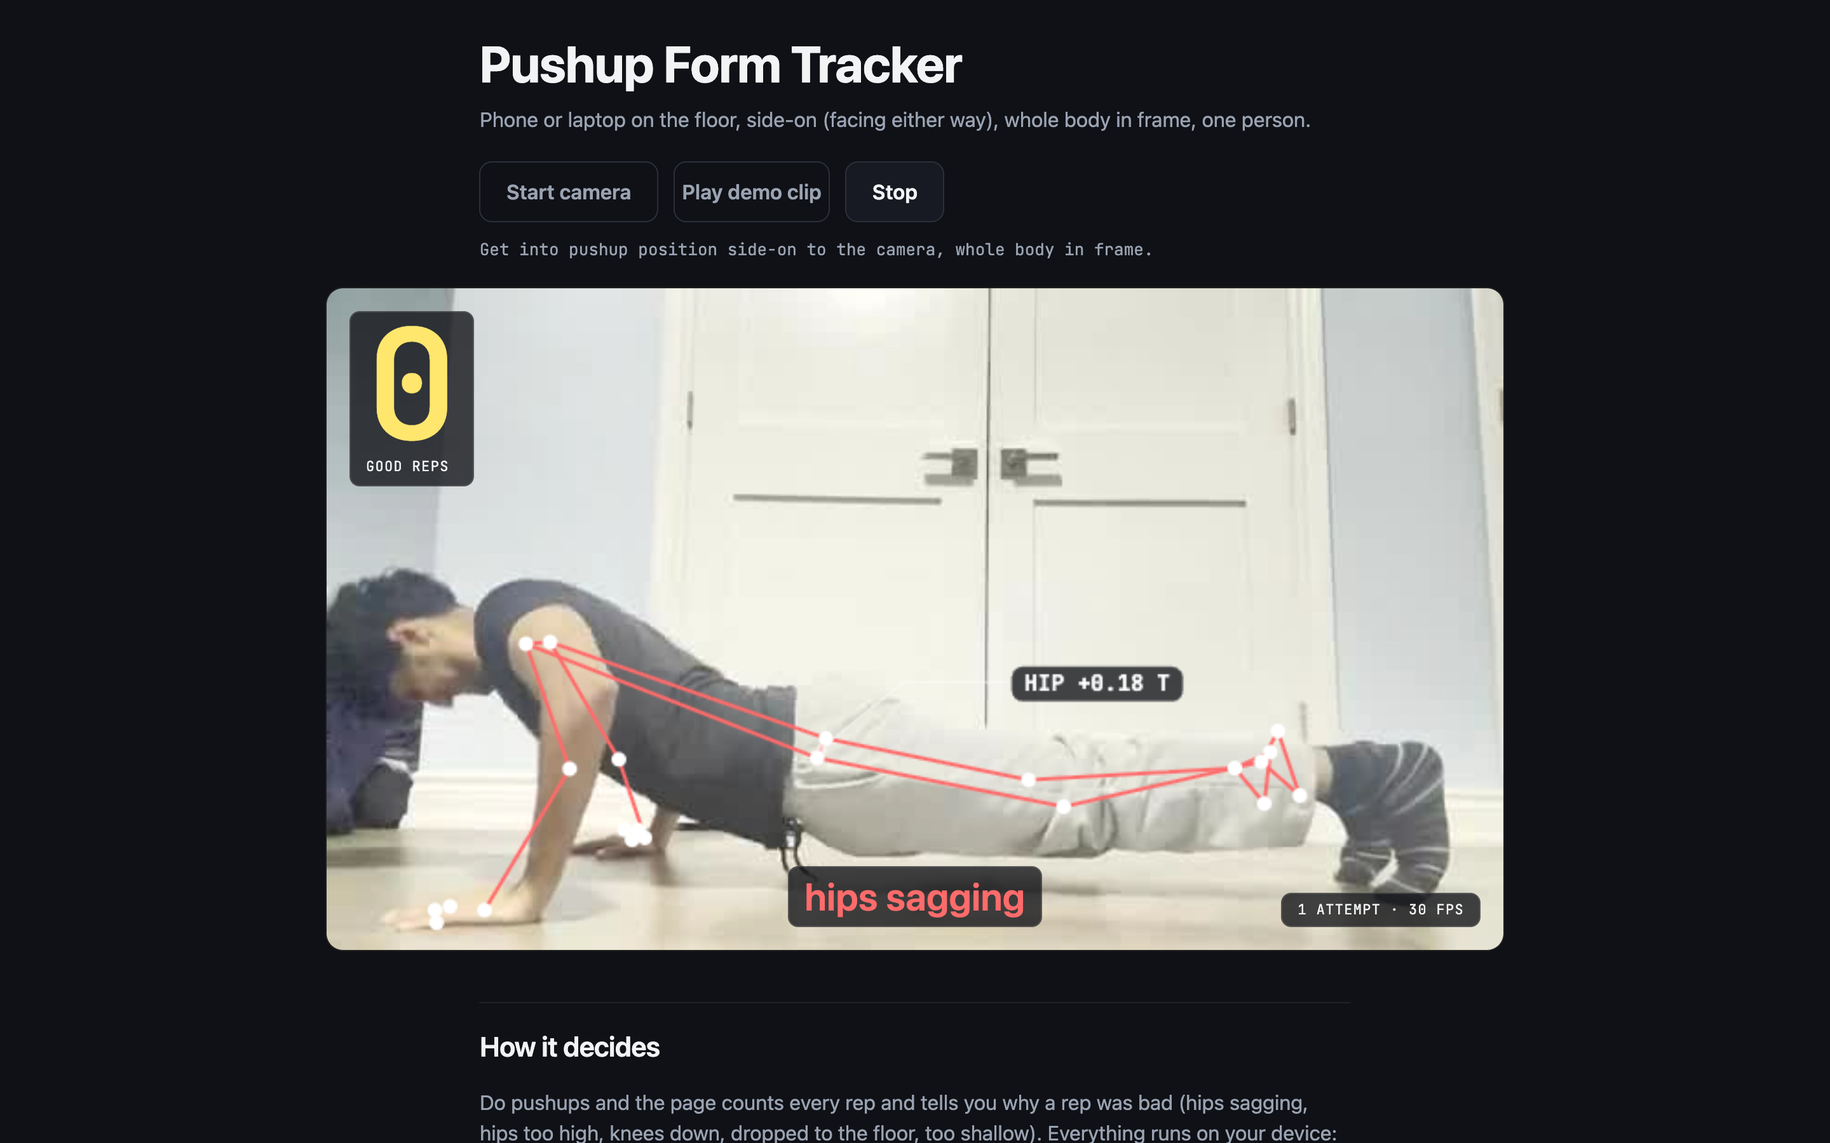
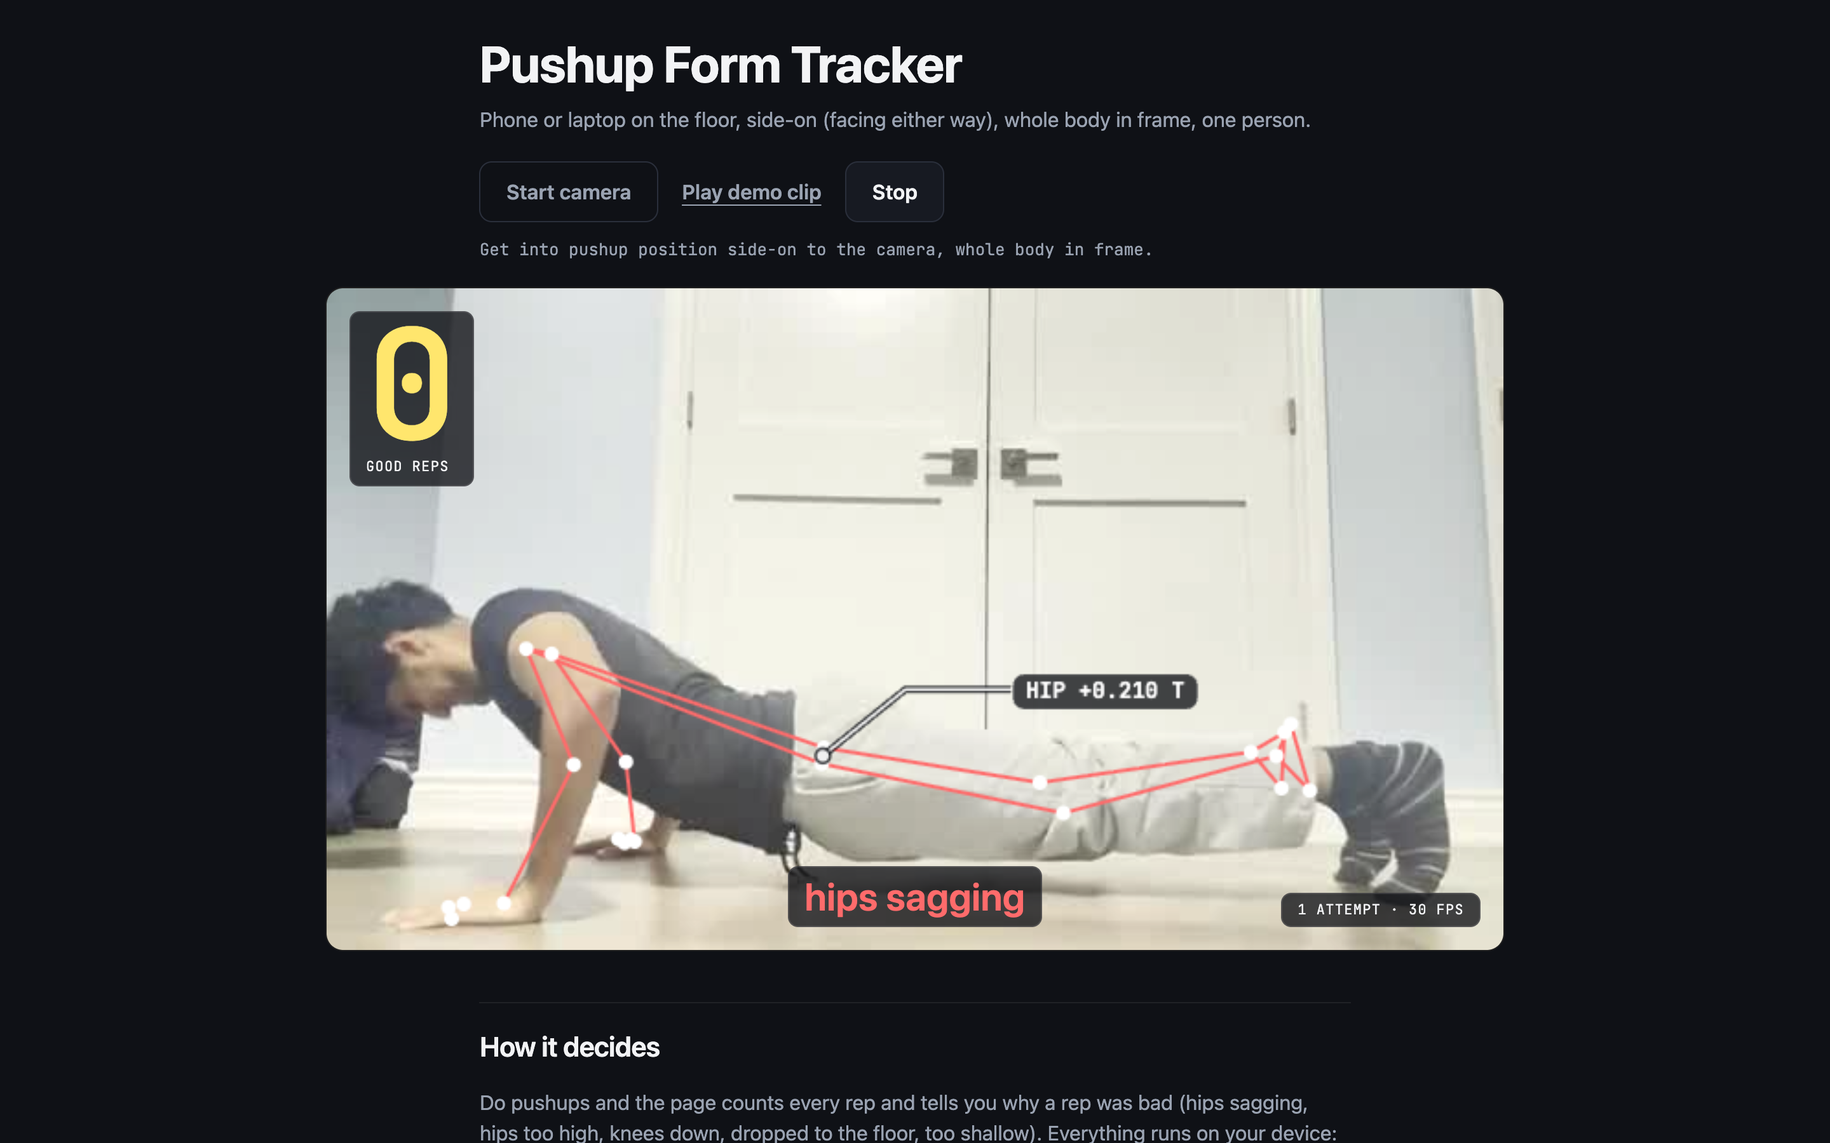
fix(ui): reviewer round 1 — all five blocking defects and eight of the minors
BLOCKING
- The rep pulse was cut to ~116 ms: AnimationEvent bubbles, so the verdict word's 120 ms verdict-in
  ended on a descendant of #stage and the listener deleted data-rep mid-keyframe. The listener now
  checks e.target === stage && e.animationName === "rep-pulse", and is removed on restart. Measured on
  the real path over a whole demo clip: four pulses of 157, 155, 159, 161 ms, none stuck, no errors.
- The stacked threshold table at 390 was broken: display:block left the caption a table-caption inside
  an anonymous shrink-to-fit box (64 px wide, 530 px tall) and the percentage column widths still
  applied, leaving 107 px for the value. Caption 64 -> 358 px wide, table 2055 -> 1062 px, the whole
  390 document 4905 -> 3912 px.
- At 390 the meta line was sliced by the stage's overflow whenever a hint was up: a 16:9 frame is only
  ~219 px tall and the five-row stack needed ~262. The hint now sits beside the count, the only row
  with spare width there; HUD scrollHeight 219 = clientHeight 219, meta bottom 492 inside stage 503.
- A held rep result outranked "paused", so a green "clean" could sit over a grey paused skeleton for
  up to 0.8 s. Paused now outranks the held result, as DESIGN.md always claimed.
- The diagnostic connector was a 1 px white hairline, ~1.2:1 against a blown-out frame, so the measured
  label floated free of its joint. It is stroked twice now, a dark under-stroke in the plate colour
  then the light line, with a ringed joint dot.

MINORS
[…]

Changed region(s): [[0.1875, 0.4978, 0.7188, 0.8089]]

diff --git a/src/style.css b/src/style.css
@@ -2,7 +2,7 @@
  * "Gym mirror" — docs/design/spec.md.
  * The video is the page: the count, the verdict, the fault and the placement hint live on the glass.
  * One accent (#ffe66d) and it means one thing: a rep was COUNTED. One added face (JetBrains Mono).
- * One easing family. Eight animations, all listed in spec.md §4, all with a static reduced-motion state.
+ * One easing family. Nine animations, all listed in DESIGN.md §2, all with a static reduced-motion state.
  */
 
 /* SIL Open Font License 1.1 — public/fonts/OFL.txt. Latin subset, self-hosted, no CDN. */
@@ -129,7 +129,9 @@ button.outline { background: var(--panel); border-color: #2a2f3b; }
 button.outline:hover:not(:disabled) { border-color: var(--line); }
 /* A 45 %-opacity accent button on black is a muddy olive with unreadable text; a disabled control is
    simply a quiet outline instead. */
-button:disabled { cursor: not-allowed; background: transparent; border-color: #2a2f3b; color: var(--muted); text-decoration: none; }
+button:disabled { cursor: not-allowed; background: transparent; border-color: #2a2f3b; color: var(--muted); }
+/* …but a disabled ghost stays a text button, never a second outlined box next to the primary. */
+button.ghost:disabled { border-color: transparent; }
 button[hidden] { display: none; }
 
 .status { min-height: 1.5em; margin: 12px 0 0; color: var(--muted); font: 400 13px/1.5 var(--mono); }
@@ -235,11 +237,18 @@ button[hidden] { display: none; }
 
 /* A narrow stage stacks the bottom row so the verdict and the meta line can never collide. */
 @container (max-width: 620px) {
-  .hud { grid-template-columns: 1fr; grid-template-rows: auto auto 1fr auto auto; }
+  .hud {
+    --hud-pad: 10px;
+    grid-template-columns: auto 1fr;
+    grid-template-rows: auto 1fr auto auto;
+    gap: 8px;
+  }
   .hud-count { grid-area: 1 / 1; }
-  .hud-hint { grid-area: 2 / 1; justify-self: end; max-width: 100%; font-size: 13px; }
-  .hud-verdict { grid-area: 4 / 1; justify-self: center; }
-  .hud-meta { grid-area: 5 / 1; justify-self: end; }
+  /* Beside the count, not under it: a 390-wide 16:9 stage is ~219 px tall and a five-row stack pushed
+     the meta line out through .stage's overflow whenever a hint was up (reviewer, 2026-09-21). */
+  .hud-hint { grid-area: 1 / 2; justify-self: end; align-self: start; max-width: 100%; font-size: 13px; }
+  .hud-verdict { grid-area: 3 / 1 / auto / span 2; justify-self: center; }
+  .hud-meta { grid-area: 4 / 1 / auto / span 2; justify-self: end; }
 }
 
 /* ---------- motion (spec.md §4) ---------- */
@@ -261,7 +270,6 @@ button[hidden] { display: none; }
 .hud-hint { transition: opacity var(--d-in) var(--ease-out), transform var(--d-in) var(--ease-out); }
 .hud-hint[data-state="out"] {
   opacity: 0;
-  transform: translateY(-4px);
   transition-duration: var(--d-out);
   transition-timing-function: var(--ease-in);
 }
@@ -338,6 +346,12 @@ button[hidden] { display: none; }
   .stage.live canvas { max-height: 62vh; object-fit: contain; }
   .thresholds, .thresholds tbody, .thresholds tr, .thresholds td { display: block; }
   .thresholds thead { display: none; }
+  /* Without these the caption stays a table-caption inside an anonymous shrink-to-fit table box — a
+     64 px ribbon 530 px tall — and the percentage column widths squeeze the value to ~107 px, which
+     together made the 390 page 2.1x taller than the page this redesign was fixing. */
+  .thresholds caption { display: block; }
+  .thresholds td:nth-child(1), .thresholds td:nth-child(2), .thresholds td:nth-child(3) { width: auto; }
+  .thresholds td:nth-child(2) { white-space: normal; }
   .thresholds tr { padding: 10px 0; border-bottom: 1px solid var(--hair); }
   .thresholds td { padding: 2px 0; border: 0; display: flex; gap: 10px; }
   .thresholds td::before {
@@ -367,5 +381,5 @@ button[hidden] { display: none; }
     box-shadow: inset 0 0 0 3px rgba(255, 230, 109, 0.65);
   }
   .hud-verdict.is-swap .v { animation: none; }
-  .hud-hint[data-state="out"] { opacity: 0; transform: none; }
+  .hud-hint[data-state="out"] { opacity: 0; }
 }

diff --git a/src/main.ts b/src/main.ts
@@ -32,8 +32,9 @@ let starting = false;
 const SLOW_FPS = 8;
 const SLOW_MS = 2000;
 /** Matches --d-out in style.css. */
-/** Safety net: the 180 ms pulse attribute is normally removed by `animationend`. */
+/** Safety net: the 180 ms pulse attribute is normally removed by its own `animationend`. */
 const PULSE_FALLBACK_MS = 1200;
+/** Matches --d-out in style.css. */
 const HINT_OUT_MS = 400;
 const IDLE = "—";
 
@@ -77,8 +78,10 @@ function setVerdict(text: string, tone: Tone) {
  * finished wins for as long as session.ts holds it, so the plate and the skeleton always agree.
  */
 function verdictWords(paused: boolean, verdict: { good: boolean; reason: string | null } | null, result: RepResult | null): [string, Tone] {
-  if (result) return result.good ? ["clean", "good"] : [result.reason ?? "unsure", "bad"];
+  // Paused first: the skeleton is grey the moment counting stops, and a held "clean" over a grey body
+  // would tell the visitor nothing is wrong at the one moment something is (reviewer, 2026-09-21).
   if (paused) return ["paused", "paused"];
+  if (result) return result.good ? ["clean", "good"] : [result.reason ?? "unsure", "bad"];
   if (verdict == null) return ["no pose", "neutral"];
   return verdict.good ? ["clean", "good"] : [verdict.reason ?? "unsure", "bad"];
 }
@@ -112,18 +115,29 @@ function setHint(text: string | null) {
 
 let pulseTimer: number | undefined;
 
-function pulseRep() {
+function clearPulse() {
   window.clearTimeout(pulseTimer);
+  stage.removeEventListener("animationend", onPulseEnd);
   delete stage.dataset.rep;
+}
+
+function onPulseEnd(e: AnimationEvent) {
+  if (e.target === stage && e.animationName === "rep-pulse") clearPulse();
+}
+
+function pulseRep() {
+  clearPulse();
   void stage.offsetWidth; // a CSS animation only restarts once the attribute has actually been off
   stage.dataset.rep = "counted";
   if (reduceMotion.matches) {
     // No animation under reduced motion: a static accent frame, held for 600 ms, then simply gone.
-    pulseTimer = window.setTimeout(() => delete stage.dataset.rep, 600);
+    pulseTimer = window.setTimeout(clearPulse, 600);
     return;
   }
-  stage.addEventListener("animationend", () => delete stage.dataset.rep, { once: true });
-  pulseTimer = window.setTimeout(() => delete stage.dataset.rep, PULSE_FALLBACK_MS);
+  // AnimationEvent bubbles: the verdict word's 120 ms `verdict-in` ends on a descendant of #stage and
+  // would cut the 180 ms pulse short (reviewer, 2026-09-21). Only this element's own pulse may end it.
+  stage.addEventListener("animationend", onPulseEnd);
+  pulseTimer = window.setTimeout(clearPulse, PULSE_FALLBACK_MS);
 }
 
 /* ---------- the count (top left) ---------- */
@@ -144,7 +158,7 @@ function resetHud() {
   setGood(0);
   setAttempts(0);
   fpsEl.textContent = IDLE;
-  verdictShown = "";
+  verdictShown = IDLE;
   verdictBox.dataset.tone = "neutral";
   formEl.textContent = IDLE;
   hintShown = null;

diff --git a/src/draw.ts b/src/draw.ts
@@ -40,7 +40,7 @@ const PAUSED = "#b8b8b8";
 /** Matches --plate / --line in src/style.css so the canvas label and the DOM HUD are one material. */
 const PLATE = "rgba(15,17,22,0.78)";
 const PLATE_EDGE = "rgba(255,255,255,0.12)";
-const CONNECTOR = "rgba(255,255,255,0.55)";
+const CONNECTOR = "rgba(255,255,255,0.92)";
 
 export function draw(ctx: CanvasRenderingContext2D, source: CanvasImageSource, o: Overlay): void {
   const { width: w, height: h } = ctx.canvas;
@@ -86,16 +86,28 @@ export function draw(ctx: CanvasRenderingContext2D, source: CanvasImageSource, o
     const bendX = jx + dir * w * 0.07;
     const endX = jx + dir * w * 0.16;
     const endY = jy - h * 0.1;
+    // Two passes: a dark under-stroke in the plate colour, then the light line on top. A single 1 px
+    // white line measured ~1.2:1 against the blown-out wall that fills most of a real frame, so the
+    // label floated free of the joint it is about (reviewer, 2026-09-21).
+    const route = new Path2D();
+    route.moveTo(jx, jy);
+    route.lineTo(bendX, endY);
+    route.lineTo(endX, endY);
+    ctx.lineJoin = "round";
+    ctx.strokeStyle = PLATE;
+    ctx.lineWidth = Math.max(4, w / 160);
+    ctx.stroke(route);
     ctx.strokeStyle = CONNECTOR;
-    ctx.lineWidth = Math.max(1, w / 900);
+    ctx.lineWidth = Math.max(1.5, w / 420);
+    ctx.stroke(route);
+    const dotR = Math.max(3, w / 200);
+    ctx.fillStyle = PLATE;
     ctx.beginPath();
-    ctx.moveTo(jx, jy);
-    ctx.lineTo(bendX, endY);
-    ctx.lineTo(endX, endY);
-    ctx.stroke();
+    ctx.arc(jx, jy, dotR + Math.max(1.5, w / 420), 0, Math.PI * 2);
+    ctx.fill();
     ctx.fillStyle = CONNECTOR;
     ctx.beginPath();
-    ctx.arc(jx, jy, Math.max(2, w / 260), 0, Math.PI * 2);
+    ctx.arc(jx, jy, dotR, 0, Math.PI * 2);
     ctx.fill();
     ctx.font = `600 ${Math.max(10, Math.round(w / 52))}px "JetBrains Mono", ui-monospace, monospace`;
     ctx.textBaseline = "middle";
@@ -121,7 +133,10 @@ function plate(ctx: CanvasRenderingContext2D, text: string, x: number, y: number
   ctx.strokeStyle = PLATE_EDGE;
   ctx.lineWidth = 1;
   ctx.beginPath();
-  ctx.roundRect(boxX, boxY, boxW, boxH, 6);
+  // roundRect is Safari 16.4+; without the fallback an older Safari throws inside the frame loop and
+  // session.ts stops the whole session over a corner radius.
+  if (typeof ctx.roundRect === "function") ctx.roundRect(boxX, boxY, boxW, boxH, 6);
+  else ctx.rect(boxX, boxY, boxW, boxH);
   ctx.fill();
   ctx.stroke();
   ctx.fillStyle = "#ffffff";

diff --git a/src/session.ts b/src/session.ts
@@ -279,7 +279,9 @@ function annotationFor(reason: string | null, g: Geometry, p: readonly Landmark[
   if (reason === "knees down" && g.kneeAngle < KNEE_DOWN_DEG) return { ...mid(25, 26), text: `KNEE ${Math.round(g.kneeAngle)} DEG` };
   if ((reason === "hips sagging" && g.hipDev > SAG_DEV) || (reason === "hips too high" && g.hipDev < PIKE_DEV)) {
     const sign = g.hipDev >= 0 ? "+" : "-";
-    return { ...mid(23, 24), text: `HIP ${sign}${Math.abs(g.hipDev).toFixed(2)} T` };
+    // Three decimals, not two: the annotation only appears once the threshold is passed, and "+0.18 T"
+    // rounded down onto the table's own "> +0.18 T" read as if the rule had not been tripped.
+    return { ...mid(23, 24), text: `HIP ${sign}${Math.abs(g.hipDev).toFixed(3)} T` };
   }
   return null;
 }

diff --git a/docs/design/DESIGN.md b/docs/design/DESIGN.md
@@ -1,6 +1,6 @@
 # Pushup Form Tracker — design system
 
-Codename **"Gym mirror"**. Dark only. One accent. One added typeface. Eight animations.
+Codename **"Gym mirror"**. Dark only. One accent. One added typeface. Nine animations.
 
 The direction is the PRIMARY lane of `docs/design/app-directions.md` §5 in `KalpKan/portfolio`; the spec
 that was locked before any code is [`spec.md`](./spec.md); the implementation plan is
@@ -78,18 +78,20 @@ video, not the window. `.stage` is a `container-type: inline-size` container and
 
 ---
 
-## 2. The motion budget — eight items, and nothing else moves
+## 2. The motion budget — nine items, and nothing else moves
 
 | # | Moment | What moves | Duration | Reason (`animation-systems`) | Reduced-motion state |
 |---|---|---|---|---|---|
 | 1 | a good rep lands | the stage frame pulses to the accent (1 px border + a sharp 3 px inset ring, no blur) | 180 ms | **confirm action** — the only confirmation a face-down user gets | a **static** accent frame, applied instantly, removed after 600 ms; the count increment does the work |
+| | | *`AnimationEvent` bubbles, so the listener that ends the pulse checks `e.target === stage && e.animationName === "rep-pulse"`; without that the verdict word's 120 ms animation ended the pulse 64 ms early.* | | | |
 | 2 | any rep lands | the count digit changes | **0 ms** | a count-up tween would lie about when the rep landed | same (there is no animation to remove) |
 | 3 | the verdict word changes | the new word fades and rises 3 px into place; the plate is never blank | 120 ms | **confirm state change**; an out-phase would hide the one word the user is reading | instant |
 | 4 | a placement hint appears | opacity 0→1, translateY −4px→0 | 200 ms | **guide attention** to something fixable | instant |
-| 5 | a placement hint clears | opacity 1→0 | 400 ms | slower out, so a flickering detection cannot strobe | instant |
+| 5 | a placement hint clears | opacity 1→0 (opacity only) | 400 ms | slower out, so a flickering detection cannot strobe | instant |
 | 6 | a session starts | the poster cross-fades to the live canvas | 220 ms | **continuity** between the still and the feed | instant |
 | 7 | button hover / press | background and border tint, no transform | 120 ms | micro-feedback on a 48 px target | instant |
 | 8 | focus | the outline appears | **0 ms** | a focus ring must never be delayed | same |
+| 9 | a session starts at ≤ 480 px | the page scrolls the stage into view | browser default | **continuity**: on a phone the header and buttons push the stage below the fold, and the visitor is about to lie on the floor | `behavior: "auto"` — the stage is simply there |
 
 No scroll-driven motion, no smooth-scroll engine, no parallax, no perpetual loop, nothing animating
 behind content. `prefers-reduced-motion: reduce` lands on a complete static final state in every case,
@@ -114,14 +116,17 @@ never on a shortened animation; the rep confirmation in particular becomes a sta
 | error | `.live` removed | the poster returns; the status line carries an actionable message |
 
 The skeleton and the verdict plate are driven by **one** value (`session.ts`'s held rep result, falling
-back to the live verdict), so a red word can never sit over a green body.
+back to the live verdict), so a red word can never sit over a green body — and `paused` outranks both,
+because the skeleton greys the moment counting stops and a held "clean" over a grey body would say
+nothing is wrong at the one moment something is.
 
 ### HUD
 
 `<ul class="hud" role="list" aria-label="Session stats">`, CSS grid, `pointer-events: none`.
 Wide stage: count top-left, hint top-right, verdict bottom-centre, meta bottom-right. Below a **620 px
-stage** (a container query, not a viewport query) the bottom row stacks — verdict then meta — so the two
-can never collide on a phone.
+stage** (a container query, not a viewport query) the verdict and the meta line stack, and the hint stays
+**beside** the count rather than under it: a 390-wide 16:9 frame is only ~219 px tall, and a five-row
+stack pushed the meta plate out through the stage's `overflow: hidden` whenever a hint was up.
 
 ### Buttons
 
@@ -135,8 +140,9 @@ outline in `--muted`, never a 45 %-opacity accent (which renders as an unreadabl
 2 px bones and 4 px filled joint dots at the 640 px canvas both sources produce, scaled by canvas width;
 green when clean, red when faulted, grey when counting is paused. When a fault is on screen **and that
 frame's own geometry trips the documented threshold**, one 1 px routed connector runs from the
-responsible joint to a mono micro-label with the measurement — `HIP +0.18 T`, `KNEE 118 DEG` — on the
-same plate material as the DOM HUD. Never more than one annotation. Bottom-window faults ("dropped to
+responsible joint to a mono micro-label with the measurement — `HIP +0.183 T`, `KNEE 118 DEG` — on the
+same plate material as the DOM HUD. The connector is stroked twice, a dark under-stroke in `--plate`
+then the light line, because a single hairline is invisible against a blown-out frame. Never more than one annotation. Bottom-window faults ("dropped to
 the floor") are not annotated, because no single frame's joint explains them.
 
 ---

diff --git a/docs/RESUME.md b/docs/RESUME.md
@@ -1,0 +1,62 @@
+# Resume — pushups "Gym mirror" redesign
+
+State at the last hand-off. If everything below is ticked in `STATUS.md`, there is nothing to resume.
+
+## Where things are
+
+- Branch `redesign` (off `main` @ `08f222a`), merged to `main` with `--no-ff` when the checklist closed.
+- The contract: `docs/design/app-directions.md` §5 in `KalpKan/portfolio`, PRIMARY direction.
+- The spec (locked before code): `docs/design/spec.md`. The plan: `docs/design/plan.md`.
+  What shipped: `docs/design/DESIGN.md`. The pre-redesign numbers: `docs/design/baseline.md`.
+- Screenshots of every state, camera-on included: `docs/images/redesign/`.
+
+## How to reproduce every gate
+
+```bash
+cd ~/projects/pushups
+npm ci
+npm run typecheck                                  # tsc, clean
+npx vitest run --pool=forks --maxWorkers=1         # 176 passed | 4 expected fail
+npm run build
+npx vite preview --port 4177 --strictPort &        # serves dist/
+
+# the design states, camera-on, through Chrome's fake camera
+node scripts/make-mjpeg.mjs                        # once, builds tests/fixtures/clips/.mjpeg
+GPU=1 node scripts/design-shots.mjs                # 11 states → docs/images/redesign/
+
+# the proof that counting did not change
+GPU=1 node scripts/e2e-corpus.mjs http://localhost:4177/            # 14/15 (bad_IMG_4456 is the known miss)
+GPU=1 MIRROR=1 node scripts/e2e-corpus.mjs http://localhost:4177/   # 14/15
+GPU=1 node scripts/e2e-demo.mjs http://localhost:4177/              # 4 good of 4, errors []
+node scripts/e2e-failure-modes.mjs http://localhost:4177/ /tmp/fail
+node scripts/e2e-hints.mjs http://localhost:4177/ tests/fixtures/clips/.mjpeg
+
+# the poster, if the demo clip or the skeleton style ever changes
+GPU=1 node scripts/make-poster.mjs http://localhost:4177/
+```
+
+Run the corpus with nothing else competing for the GPU: a run that drops to ~15 fps can lose a clip
+(`IMG_1359` did exactly that once, and passed on its own at 26 fps).
+
+## Known, deliberate, not defects
+
+- `bad_IMG_4456` counts 4 good of 4 in every facing. It is the documented 2D-landmark blind spot (a rep
+  that rests on the floor and pushes the chest up with the arms properly bent) and is an `it.fails` in
+  `tests/corpus.test.ts`. The redesign did not change it and must not be blamed for it.
+- The HUD plate is `rgba(15,17,22,0.78)`, not the direction's 0.72, so `--bad` clears 3:1 against a
+  blown-out frame. Measured in `DESIGN.md` §5.
+- The count uses `13cqi`, not the direction's `12vw`, because the stage is capped at 960 px and the
+  count must scale with the video rather than the window.
+- `border-beam` is not installed: it is React-only and this app has no framework. Its principles are
+  applied by hand to the one pulse (`DESIGN.md` §6).
+
+## If you have to change something
+
+The view is `index.html`, `src/style.css`, `src/main.ts`, `src/draw.ts`.
+The judgement is `src/repCounter.ts`, `src/form.ts`, `src/tracker.ts`, `src/features.ts`,
+`src/hints.ts`, `src/pose.ts` — a design change must never touch them, and
+`git diff main --stat -- <those files> tests/` being empty is the check.
+
+These ids are a contract with `scripts/e2e-*.mjs`: `#stage`, `#stage.live`, `#video`, `#canvas`,
+`#status`, `#start-camera`, `#play-demo`, `#stop`, `#stat-good`, `#stat-total`, `#stat-form`,
+`#stat-fps`. `#stat-good` and `#stat-total` must stay bare integers; `#stat-fps` must stay `"<n> fps"`.

diff --git a/docs/design/spec.md b/docs/design/spec.md
@@ -158,8 +158,9 @@ One easing family, declared once:
 | 7 | Button press / hover | background + 1px border tint, no transform | 120 ms | out | Micro feedback on a 48px target. |
 | 8 | Focus | outline appears | **0 ms, instant** | — | A focus ring must never be delayed. |
 
-Nothing else on the page moves. No scroll-driven motion, no smooth-scroll engine, no perpetual loop,
-no motion behind content.
+One more, found in review and added to the table in `DESIGN.md` §2: at ≤ 480 px, starting a session
+scrolls the stage into view (`behavior: "auto"` under reduced motion). Nothing else on the page moves.
+No scroll-driven motion, no smooth-scroll engine, no perpetual loop, no motion behind content.
 
 **`prefers-reduced-motion: reduce` — every one of the above lands on a complete static final state:**
 
